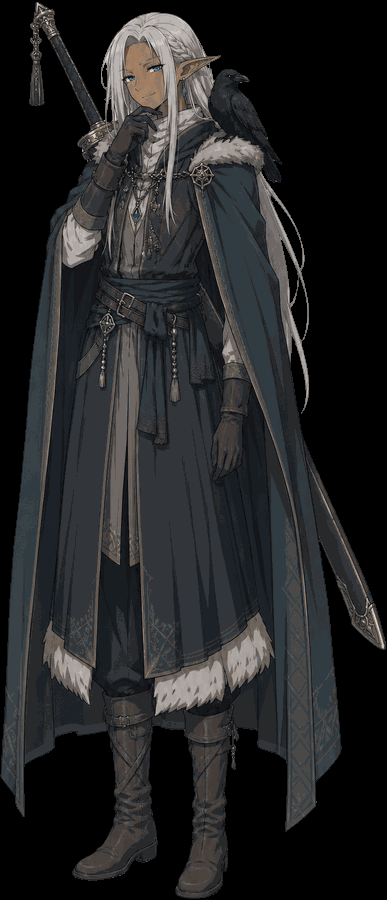
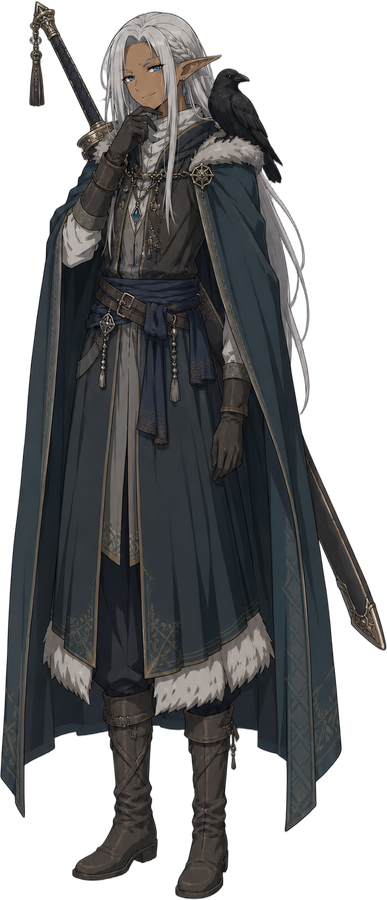
セラフィーヌ透過修正(RGBA)＋カード文修正(年齢tell削除・魔導剣と喋るtell追加)

diff --git a/index.html b/index.html
@@ -1169,8 +1169,8 @@ footer p { font-size:11.5px; color:var(--dim); max-width:640px; margin:0 auto; l
         <span class="ch-body"><b>アクアリエルナ</b><span class="race">エルダナーン・推定950歳</span><span class="role">放浪の魔術士</span></span>
       </button>
       <button class="ch reveal fac-people t-open" data-src="assets/p_seraphine.png" data-cap="セラフィーヌ"
-        data-km="エルダナーン・不明／渡りの古物商" data-desc="背に一振りの大太刀を負った、坩堝横丁の顔なじみ。エルダの遺物や古い書を商う渡りの古物商で、品定めのついでに世の噂へやたらと詳しい。肩には人語を解すという黒い鴉。「ふぅむ、面妖じゃのう」と老成した口ぶりで笑うが、その顔は幾年たっても若いままだと、横丁の古株はいぶかる。">
-        <span class="ch-face"><img src="assets/p_seraphine.png" loading="lazy" alt="セラフィーヌ"><span class="ch-desc">背に一振りの大太刀を負った、坩堝横丁の顔なじみ。エルダの遺物や古い書を商う渡りの古物商で、品定めのついでに世の噂へやたらと詳しい。肩には人語を解すという黒い鴉。「ふぅむ、面妖じゃのう」と老成した口ぶりで笑うが、その顔は幾年たっても若いままだと、横丁の古株はいぶかる。</span></span>
+        data-km="エルダナーン・不明／渡りの古物商" data-desc="背に一振りの大太刀を負った、坩堝横丁の顔なじみ。エルダの遺物や古い書を商う渡りの古物商で、品定めのついでに世の噂へやたらと詳しい。肩の黒い鴉に話しかけ、ときには背の大太刀にも「ふぅむ、面妖じゃのう」と相槌を求める───そのどちらも返事をしているように見えるのが、坩堝横丁の七不思議のひとつ。">
+        <span class="ch-face"><img src="assets/p_seraphine.png" loading="lazy" alt="セラフィーヌ"><span class="ch-desc">背に一振りの大太刀を負った、坩堝横丁の顔なじみ。エルダの遺物や古い書を商う渡りの古物商で、品定めのついでに世の噂へやたらと詳しい。肩の黒い鴉に話しかけ、ときには背の大太刀にも「ふぅむ、面妖じゃのう」と相槌を求める───そのどちらも返事をしているように見えるのが、坩堝横丁の七不思議のひとつ。</span></span>
         <span class="ch-body"><b>セラフィーヌ</b><span class="race">エルダナーン・不明</span><span class="role">渡りの古物商</span></span>
       </button>
     </div>
